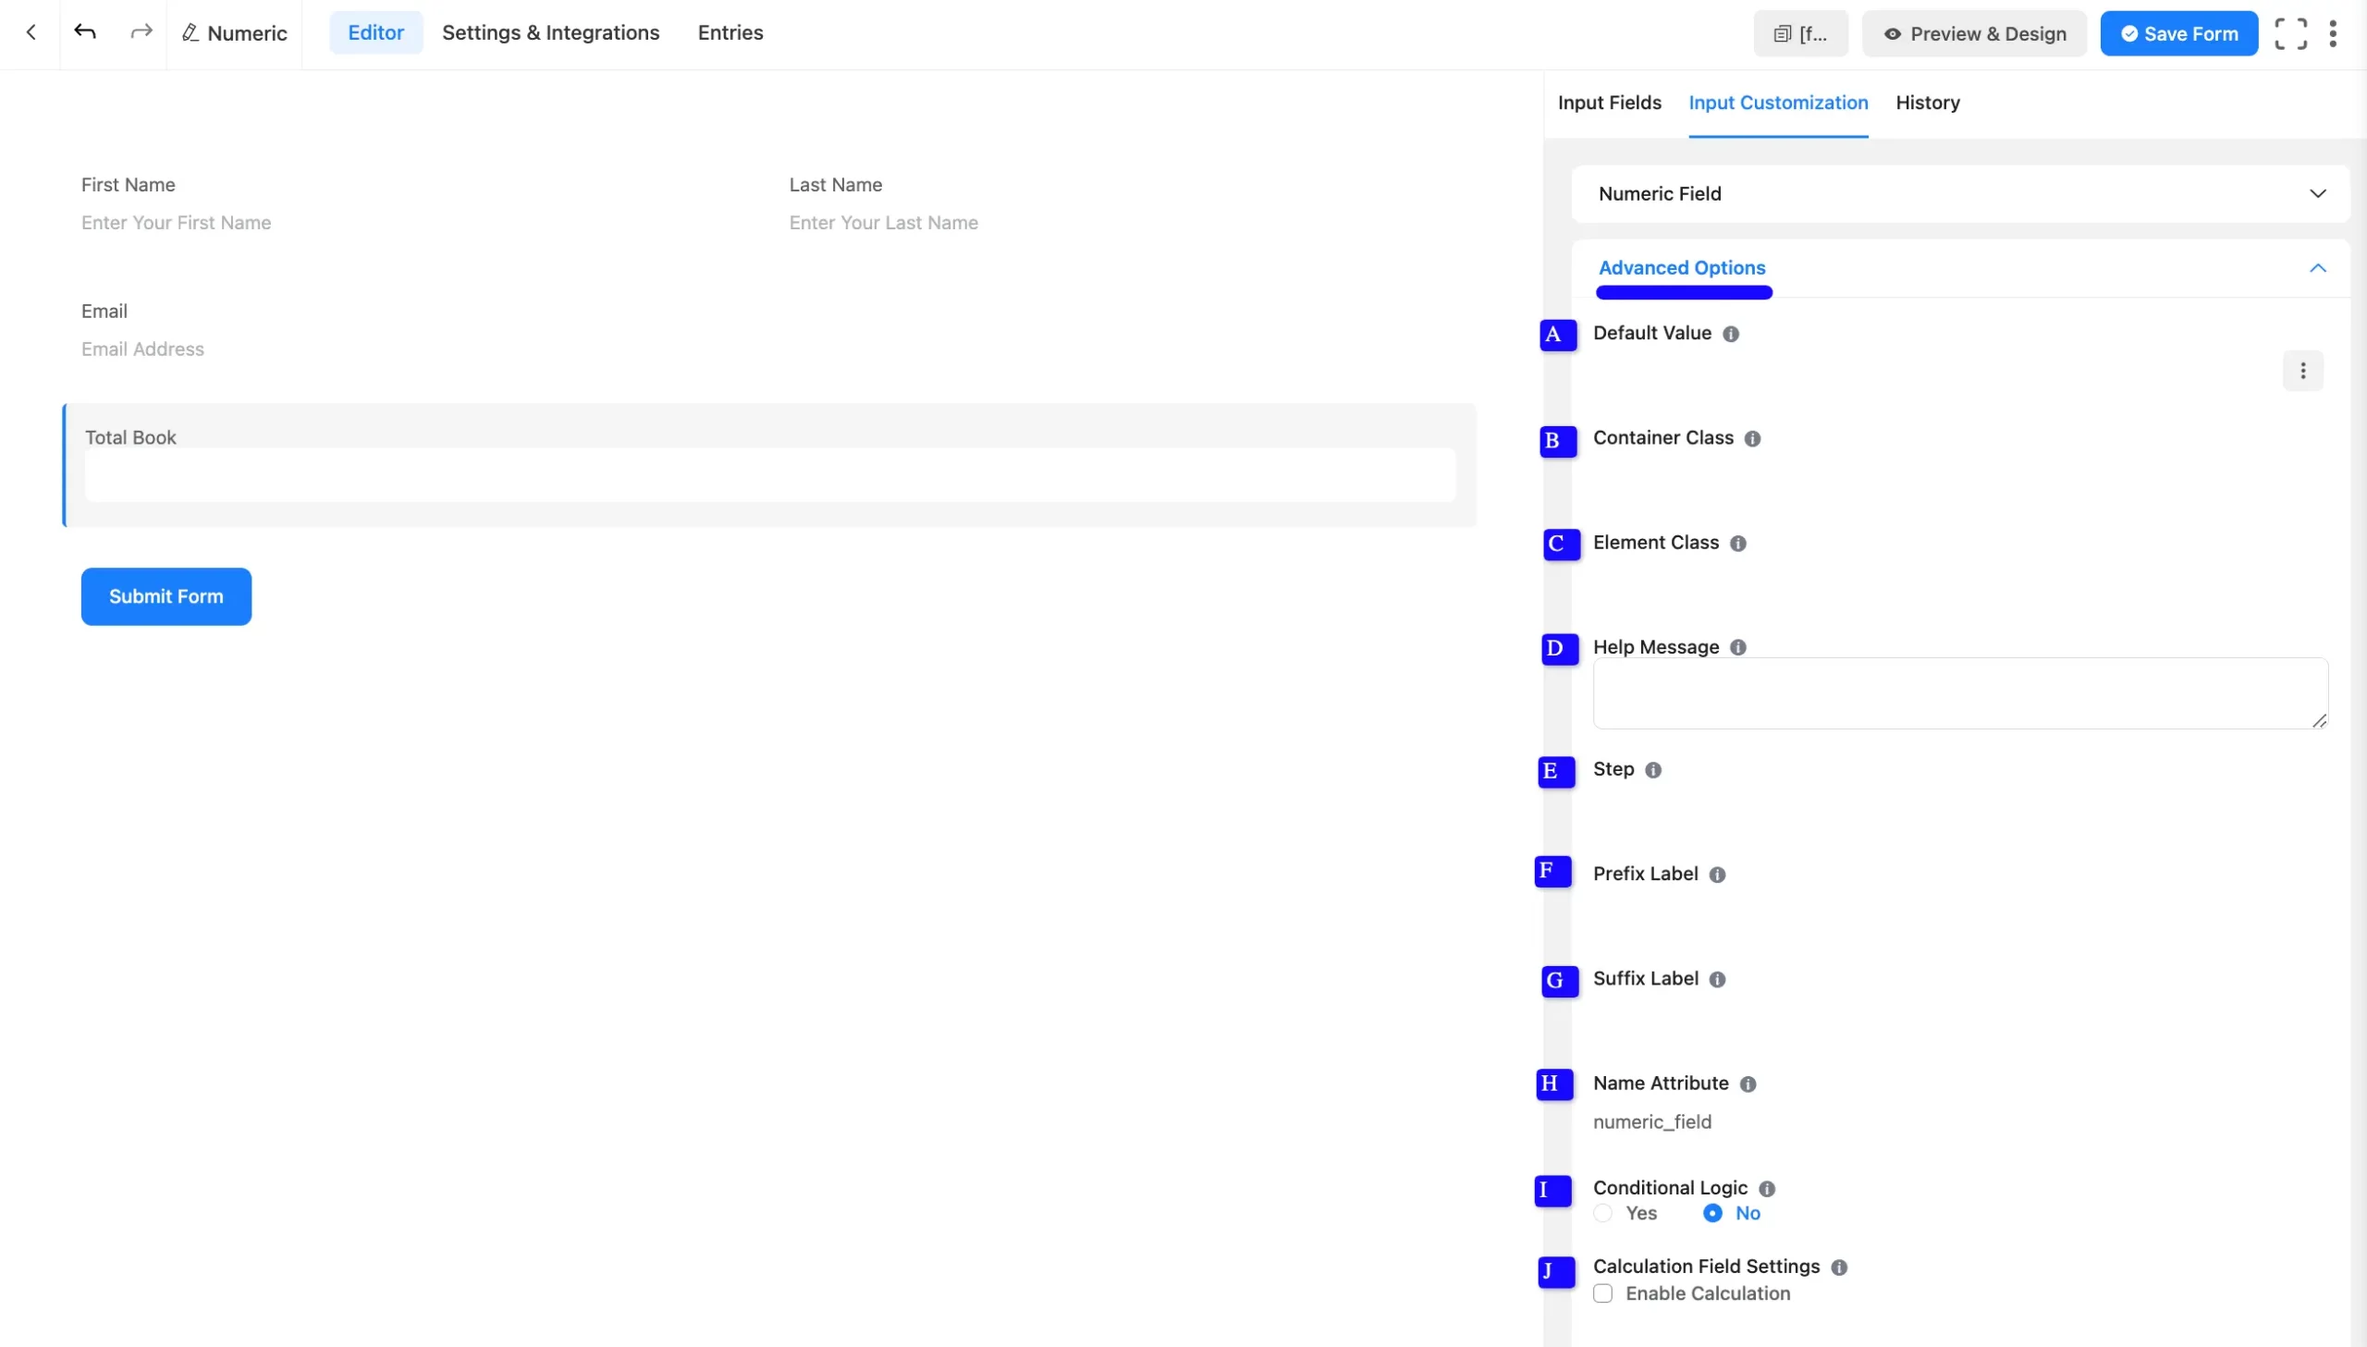
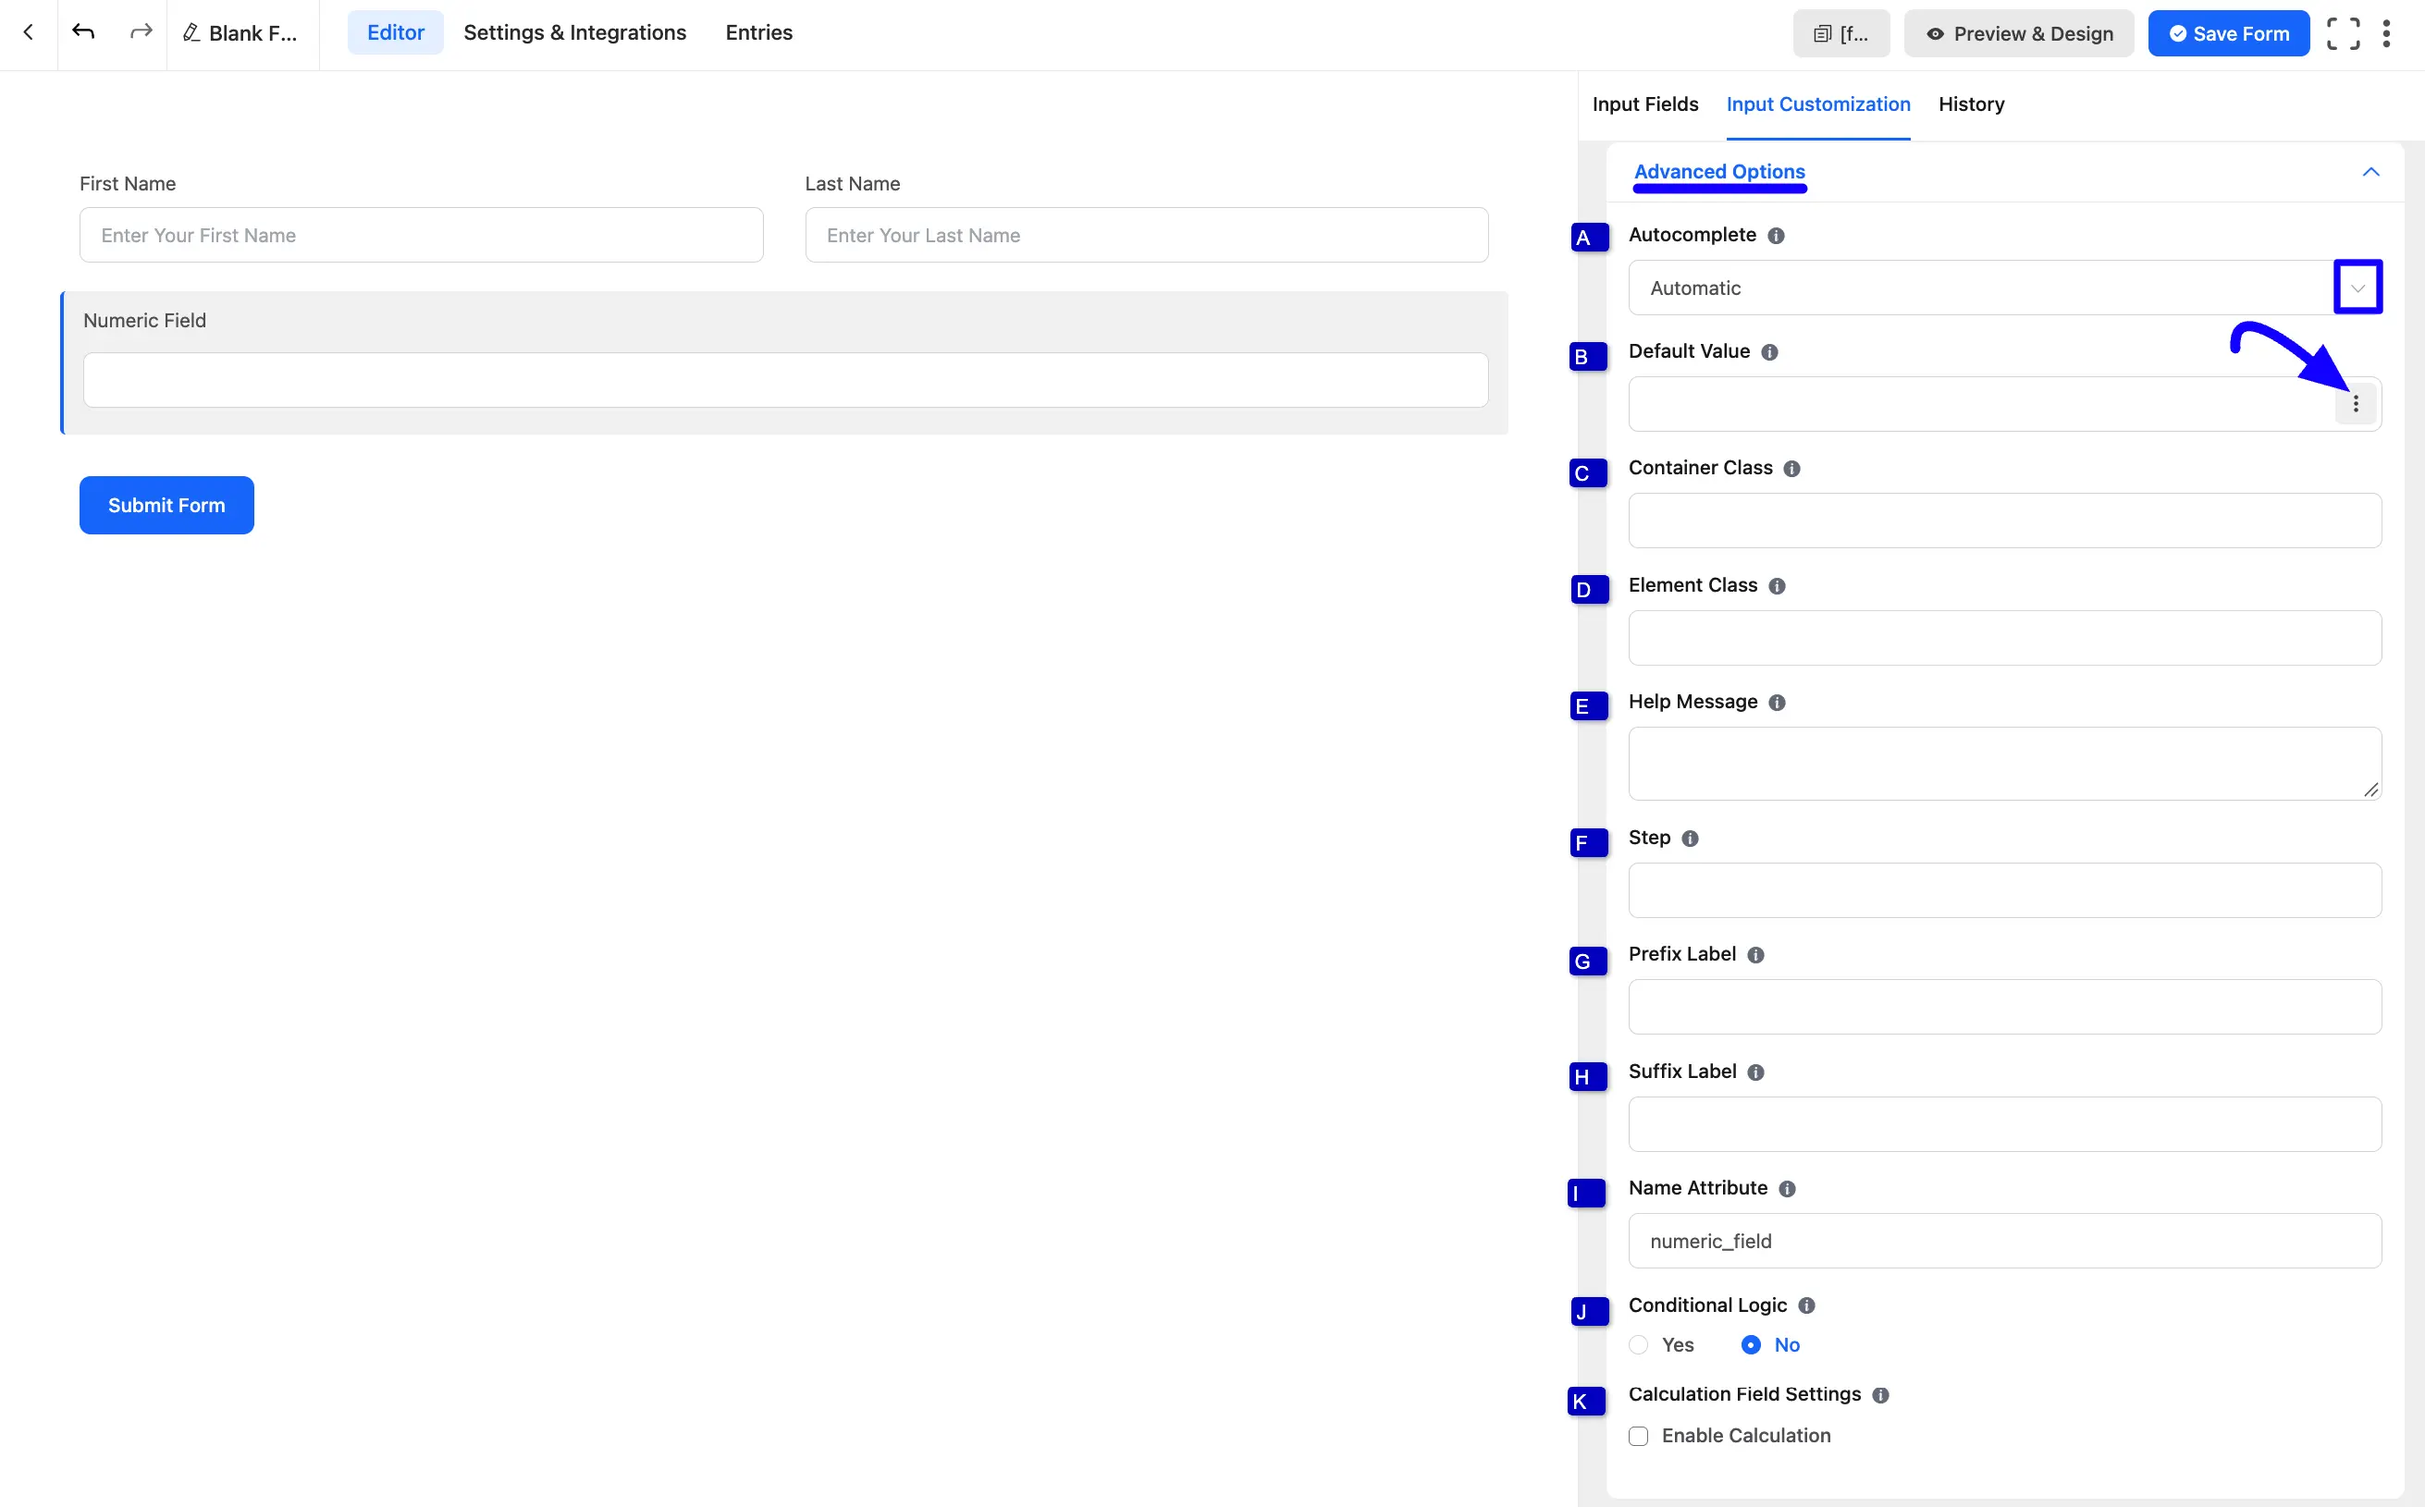
description and image update of numeric field doc

diff --git a/docs/form-fields/general-fields/numeric-input-field.md b/docs/form-fields/general-fields/numeric-input-field.md
@@ -74,29 +74,31 @@ You will find various settings options for customizing the field. Located in the
 
 Advanced settings allow further customization to meet specific use cases.
 
-**A. Default Value:** Using our shortcodes, you can manually set any fixed value in your field and pre-fill your input field dynamically. Read [Dynamic Default Value in Fluent Forms](/dynamic-default-value) to better understand Dynamic Default values.
+**A. Autocomplete:** Choose a value that tells the browser what the field collects, so it can offer saved details. Options are **Automatic**, **off**, **None**, or a specific value. To learn more, read [Autocomplete for Form Fields](/autocomplete-for-form-fields).
 
-**B. Container Class:** Use this option to add your custom CSS classes to the field's wrapper.
+**B. Default Value:** Using our shortcodes, you can manually set any fixed value in your field and pre-fill your input field dynamically. Read [Dynamic Default Value in Fluent Forms](/dynamic-default-value) to better understand Dynamic Default values.
 
-**C. Element Class:** Add custom CSS classes to the input field.
+**C. Container Class:** Use this option to add your custom CSS classes to the field's wrapper.
 
-**D. Help Message:** This option allows you to guide your user thoroughly. Add your text here, which will be shown as a help message to the user.
+**D. Element Class:** Add custom CSS classes to the input field.
 
-**E. Step:** The user can provide a Step attribute for this field. Users can give the value any floating value. For example:
+**E. Help Message:** This option allows you to guide your user thoroughly. Add your text here, which will be shown as a help message to the user.
+
+**F. Step:** The user can provide a Step attribute for this field. Users can give the value any floating value. For example:
 
 - Use 1 for whole numbers ( 1, 2, 3).
 
 - Use 0.01 for decimal steps ( 0.01, 0.02, 0.03).
 
-**F. Prefix Label:** You can use this field to provide a **Prefix Label** in your input field. It will show in the input field as a prefix label.
+**G. Prefix Label:** You can use this field to provide a **Prefix Label** in your input field. It will show in the input field as a prefix label.
 
-**G. Suffix Label:** You can use this field to provide a **Suffix Label** in your input field. It will show in the input field as a suffix label.
+**H. Suffix Label:** You can use this field to provide a **Suffix Label** in your input field. It will show in the input field as a suffix label.
 
-**H. Name Attribute:** The input field's name attribute is the HTML equivalent of the same name. You don't need to modify this.
+**I. Name Attribute:** The input field's name attribute is the HTML equivalent of the same name. You don't need to modify this.
 
-**I. Conditional Logic:** This option allows you to create specific rules to dynamically hide/show the input field to function conditionally based on your submission values according to your set of conditional logics. To learn more, read [Set up Forms with Conditional Logic in Fluent Forms](/set-up-forms-with-conditional-logic). 
+**J. Conditional Logic:** This option allows you to create specific rules to dynamically hide/show the input field to function conditionally based on your submission values according to your set of conditional logics. To learn more, read [Set up Forms with Conditional Logic in Fluent Forms](/set-up-forms-with-conditional-logic). 
 
-**J. Calculation Field Settings:** Enable this to dynamically calculate the field's value based on other numeric field values. Add a **formula expression** to implement calculations. To learn more, read [Numeric Calculation in Fluent Forms](/numeric-calculation).
+**K. Calculation Field Settings:** Enable this to dynamically calculate the field's value based on other numeric field values. Add a **formula expression** to implement calculations. To learn more, read [Numeric Calculation in Fluent Forms](/numeric-calculation).
 
 ![Advanced Options](/images/form-fields/general-fields/numeric-input-field/Advanced-options-05-6-scaled.webp)
 
